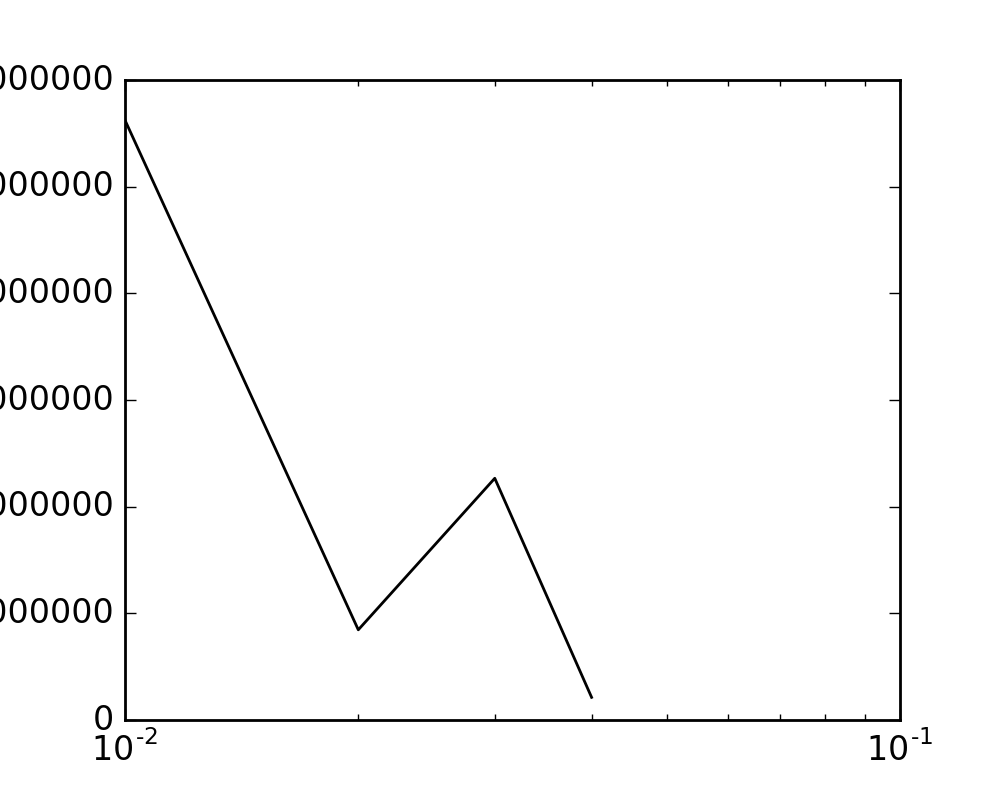
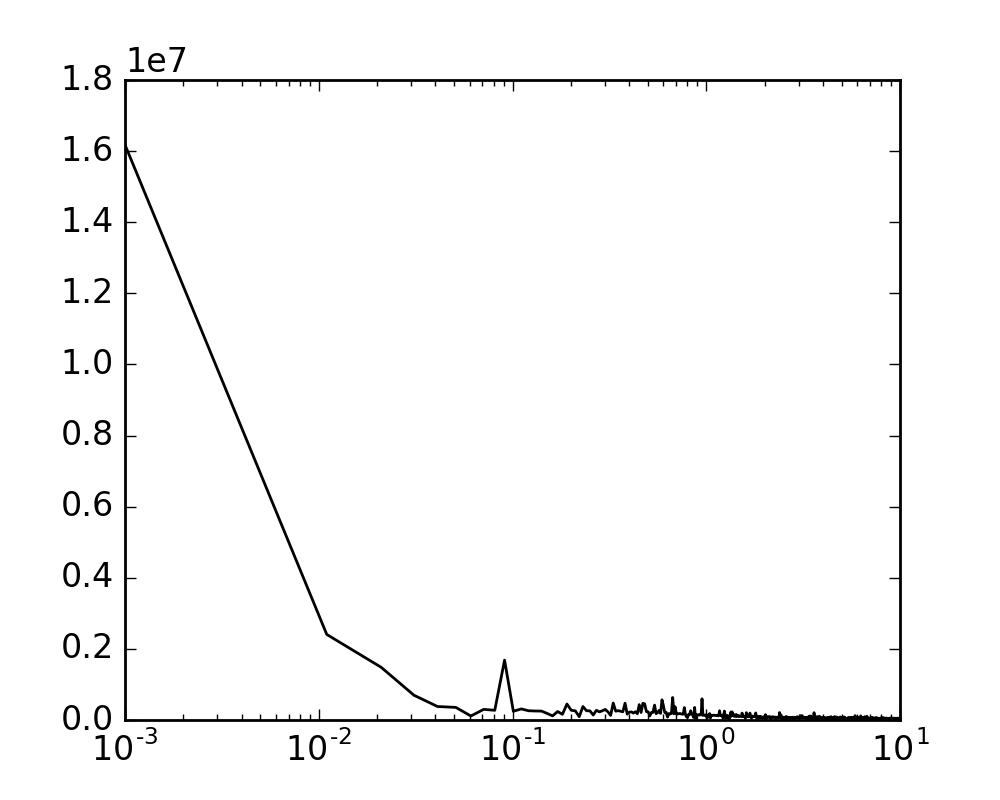
bugs fixed - all parts working

diff --git a/asgn_1/src/gradient.py b/asgn_1/src/gradient.py
@@ -32,9 +32,7 @@ xp[:, 0] = 1
 def gradient_descent(x, y, w, p, l_rate, e):
     cost = []
     reg_term = []
-    m = y.size
     norm_gradient = []
-    norm_gradient_dummy = []
     gradient = np.inf
     norm_gradient.append(np.linalg.norm(gradient))
 
@@ -50,18 +48,14 @@ def gradient_descent(x, y, w, p, l_rate, e):
         error = h - y
 
         # compute gradient and regularization
-        dummy = x.T.dot(error)
-        gradient = (dummy) + (2 * p * w)
+        gradient = x.T.dot(error) + (2 * p * w)
         norm_gradient.append(np.linalg.norm(gradient))
-        norm_gradient_dummy.append(np.linalg.norm(dummy))
 
         # update parameters
-        # w = np.subtract(w, l_rate * gradient)
-        w = w - l_rate * gradient
+        w -= l_rate * gradient
 
         # store objective
         if cnt % 100 == 0:
-            # cost.append(np.sum(error**2)/(2*m))
             reg_term.append(np.linalg.norm(w))
             cost.append(np.sum(error ** 2) / 2)
             print("{} , {} , {} , {}".format(cost[-1], norm_gradient[-1], l_rate, p))
@@ -102,11 +96,10 @@ def part1():
 
     # hyper-parameters
     p = 0.85
-    # lr = 0.001
-    e = 0.001
-    sp = .1
+    e = 0.0001
+    sp = .001
 
-    lr = np.arange(0.0006, 0.00063, 0.00001)
+    lr = np.arange(0.00062, 0.000639, 0.000001)
     sp_loss = []
     test_loss = []
     norm_grad = []
@@ -119,17 +112,18 @@ def part1():
         h = xp.dot(w)
         error = h - yp
         test_loss.append((np.sum(error ** 2) / 2))
+    print(test_loss)
 
     # plot learning rate test
-    # mpl.rc('text', usetex = True)
     fig = plt.figure(figsize=(5, 4))
     plt.plot(lr, sp_loss, '-k')
     plt.plot(lr, test_loss, '--k')
-    # plt.xscale('log')
-    # plt.xlabel(r'$\rm{log}_{10}(\learning rate$)', fontsize=10)
-    # plt.ylabel(r'$\rm{J}(w)$', fontsize=10)
-    # plt.legend(loc='upper right', fontsize=10)
-    # fig.savefig("test_learning_rate.png")
+    plt.xscale('log')
+    plt.yticks(np.arange(50000, 200000, 400000))
+    plt.xlabel('learning rate', fontsize=10)
+    plt.ylabel('SSE', fontsize=10)
+    plt.legend(loc='upper right', fontsize=10)
+    #fig.savefig("test_learning_rate.png")
     plt.show()
 
 
@@ -141,12 +135,11 @@ def part2():
 
     # hyper-parameters
     p = 0.85
-    lr = 0.0006
+    lr = 0.00063
     e = 0.001
 
-    # test effect of lambda on traning and test SSE
-    sp = np.arange(0.01, 10, 0.01)
-    sp = np.arange(0.1,10,0.1)
+    # test effect of lambda on training and test SSE
+    sp = np.arange(0.001,10,0.01)
     sp_loss = []
     test_loss = []
     norm_grad = []
@@ -157,24 +150,30 @@ def part2():
         sp_loss.append(cost[-1])
         h = xp.dot(w)
         error = h - yp
-        test_loss.append((np.sum(error ** 2) / 2))
+        test_loss.append((np.sum(error ** 2)/2))
 
-        # print i
+    print(test_loss)
 
-    # print sp_loss
-    # print test_loss
+
 
     # plot lambda test
     # mpl.rc('text', usetex = True)
     fig = plt.figure(figsize=(5, 4))
-    mpl.rc('text', usetex = True)
+    #mpl.rc('text', usetex = True)
     mpl.rcParams['text.latex.preamble']=[r"\usepackage{amsmath}", r"\renewcommand{\vec}[1]{\mathbf{#1}}"]
     fig = plt.figure(figsize=(5,4))
     plt.plot(sp, sp_loss, '-k', label=r'$\rm{train}$')
+    plt.xscale('log')
+    plt.xlabel('log lambda', fontsize=10)
+    plt.ylabel('SSE', fontsize=10)
+    plt.legend(loc='upper right', fontsize=10)
+    fig.savefig("train_lambda.png", dpi=200)
+
+    fig = plt.figure(figsize=(5, 4))
     plt.plot(sp, test_loss, '--k', label=r'$\rm{test}$')
     plt.xscale('log')
-    plt.xlabel(r'$\rm{log}_{10}(\lambda_i$)', fontsize=10)
-    plt.ylabel(r'$\rm{J}(\vec{w}^*)$', fontsize=10)
+    plt.xlabel('log lambda', fontsize=10)
+    plt.ylabel('SSE', fontsize=10)
     plt.legend(loc='upper right', fontsize=10)
     fig.savefig("test_lambda.png", dpi=200)
 
@@ -186,19 +185,19 @@ def part2():
     fig.savefig('norm_lambda.png', dpi=200)
 
 
-# =================================
+# ================================
 # Part 3: 10-fold cross-validation
-# =================================
+# ================================
 
 def part3():
 
     # hyper-parameters
     p = 0.85
-    lr = 0.0006
+    lr = 0.00063
     e = 0.001
 
     # test effect of lambda on traning and test SSE
-    sp = np.arange(0.01, 0.05, 0.01)
+    sp = np.arange(0.001,10,0.01)
     sp_loss = []
     sse_lambda_array = []
     norm_grad = []
@@ -213,10 +212,13 @@ def part3():
             ten_fold_dataset = create_tenfold_sets(dataset)
             ten_fold_indices = range(len(ten_fold_dataset))
             for ten_fold_index in ten_fold_indices:
+                #dataset_temp_1 = np.split(ten_fold_dataset, [ten_fold_index, ten_fold_index+1])[0]
+                #dataset_temp_2 = np.split(ten_fold_dataset, [ten_fold_index, ten_fold_index + 1])[2]
+                #dataset_temp = np.vstack((np.vstack(dataset_temp_1), np.vstack(dataset_temp_2)))
                 for index in [x for x in ten_fold_indices if x != ten_fold_index]:
                     dummy = np.vstack((dataset_temp, np.array(ten_fold_dataset[index])))
-                    dataset_temp = dummy
-                dataset_temp = np.split(dataset_temp, 10)[2]
+                    dataset_temp = np.array(dummy)
+                dataset_temp = np.split(dataset_temp, [0, 10])[2]
                 w, cost = gradient_descent(dataset_temp[:, :-1], dataset_temp[:, -1], w, lambda_cof, lr, e)
                 h = np.array(ten_fold_dataset[ten_fold_index])[:,:-1].dot(w)
                 error = h - np.array(ten_fold_dataset[ten_fold_index])[:, -1]
@@ -226,7 +228,7 @@ def part3():
         return sse_lambda_array
 
     sse_lambda_array = ten_fold_cross_validation(x, y)
-
+    print(sse_lambda_array)
     fig = plt.figure(figsize=(5, 4))
     plt.plot(sp, sse_lambda_array, '-k')
     plt.xscale('log')
@@ -236,8 +238,8 @@ def part3():
 
 
 def main():
-    #part1()
-    #part2()
+    # part1()
+    # part2()
     part3()
 
 main()
